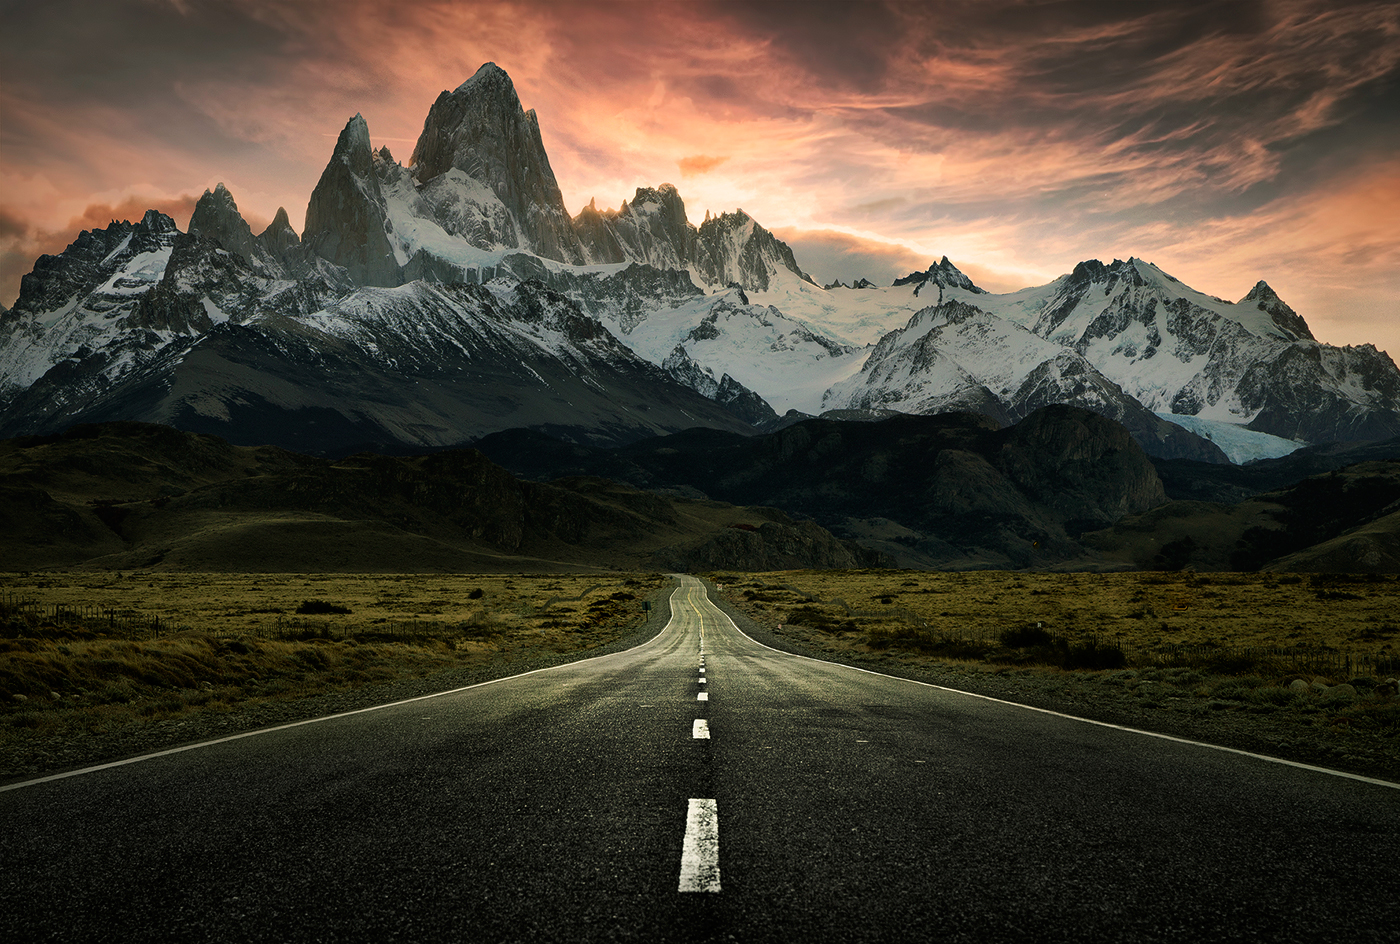
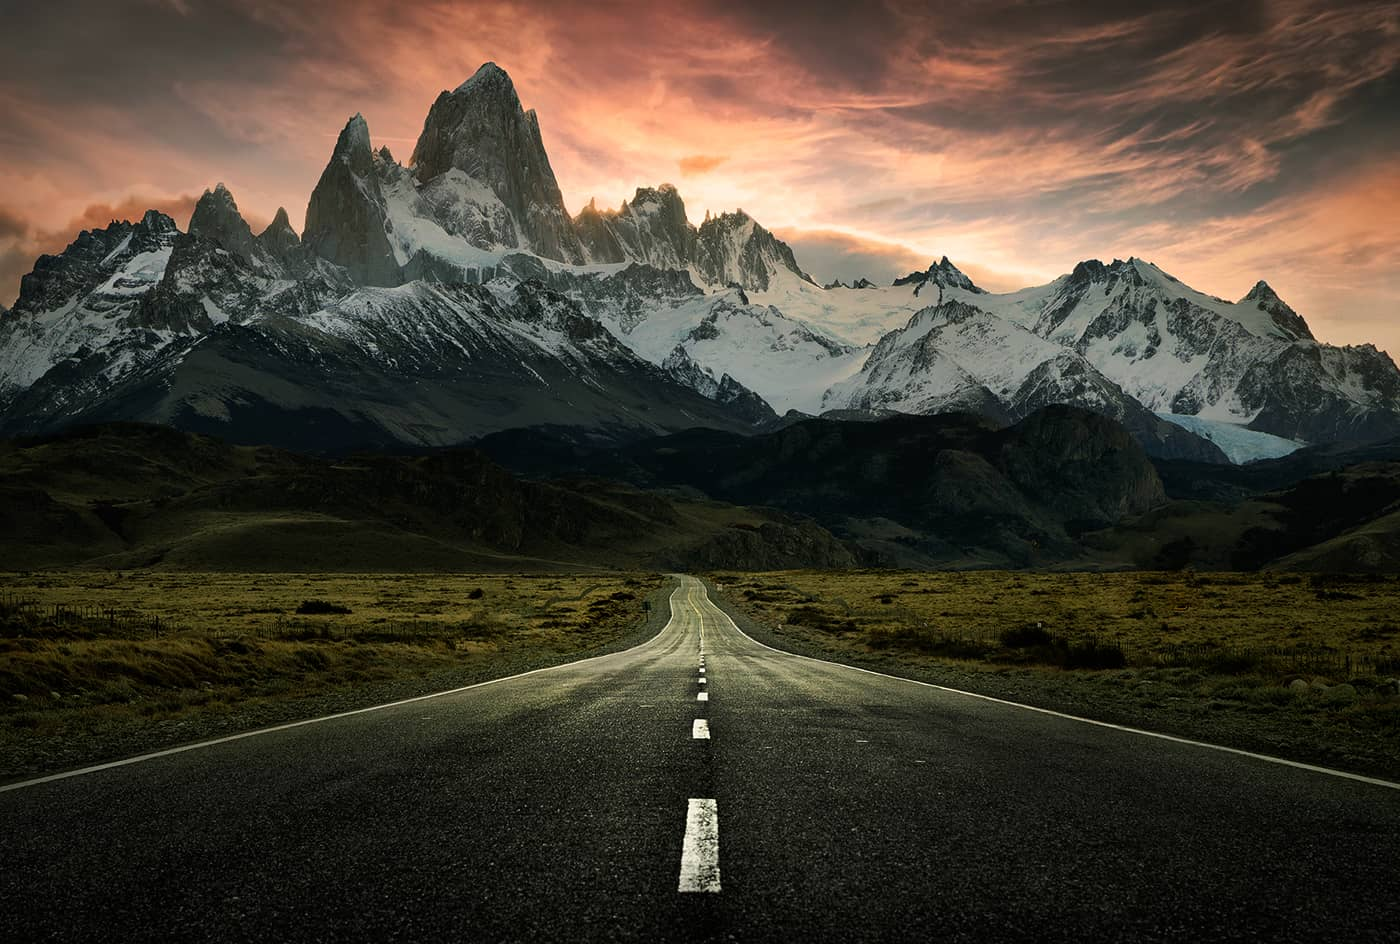
optimized images

diff --git a/index.html b/index.html
@@ -196,7 +196,9 @@
                         <h4>
                             DECA VBC
                         </h4>
-                        <img class="project-ss" src="./images/VBC.png">
+                        <picture>
+                            <img class="project-ss" src="./images/VBC.png">
+                        </picture>
                     </div>
                     <div class="prcard2">
                         <p class="card-desc">
@@ -268,7 +270,10 @@
                         <!-- <h4>
                             Linear Algebra
                         </h4> -->
-                        <img class="project-ss" src="./images/CLT_convolution.gif">
+                        <picture>
+                            <source media="(max-width: 640px)" srcset="./images/CLT_convolution_mobile.gif">
+                            <img class="project-ss" src="./images/CLT_convolution.gif">
+                        </picture>
                     </div>
                     <div class="prcard2">
                         <p class="card-desc">

diff --git a/styles.css b/styles.css
@@ -195,9 +195,27 @@ h3, h4{
 }
 
 .projects{
-    background-color: var(--color-3);
+    /* background-color: var(--color-3); */ 
     background-color: transparent;
+    /* background-image: url("https://media.istockphoto.com/id/537331500/photo/programming-code-abstract-technology-background-of-software-deve.jpg?s=612x612&w=0&k=20&c=jlYes8ZfnCmD0lLn-vKvzQoKXrWaEcVypHnB5MuO-g8=");
+    background-size: cover;
+    background-color: rgba(0, 0, 0, 0.5);
+    background-blend-mode: multiply;
+    background-repeat: no-repeat;
+    background-position: center;
+    background-attachment: fixed; */
 }
+/* .projects::before{
+    content:"";
+    position: absolute;
+    top: 0;
+    left: 0;
+    width: 100%;
+    height: 100%;
+    background-color: var(--color-3);
+    opacity: 0.8;
+    z-index: -1;
+} */
 .project-card{
     max-width:40rem;
     display: grid;
